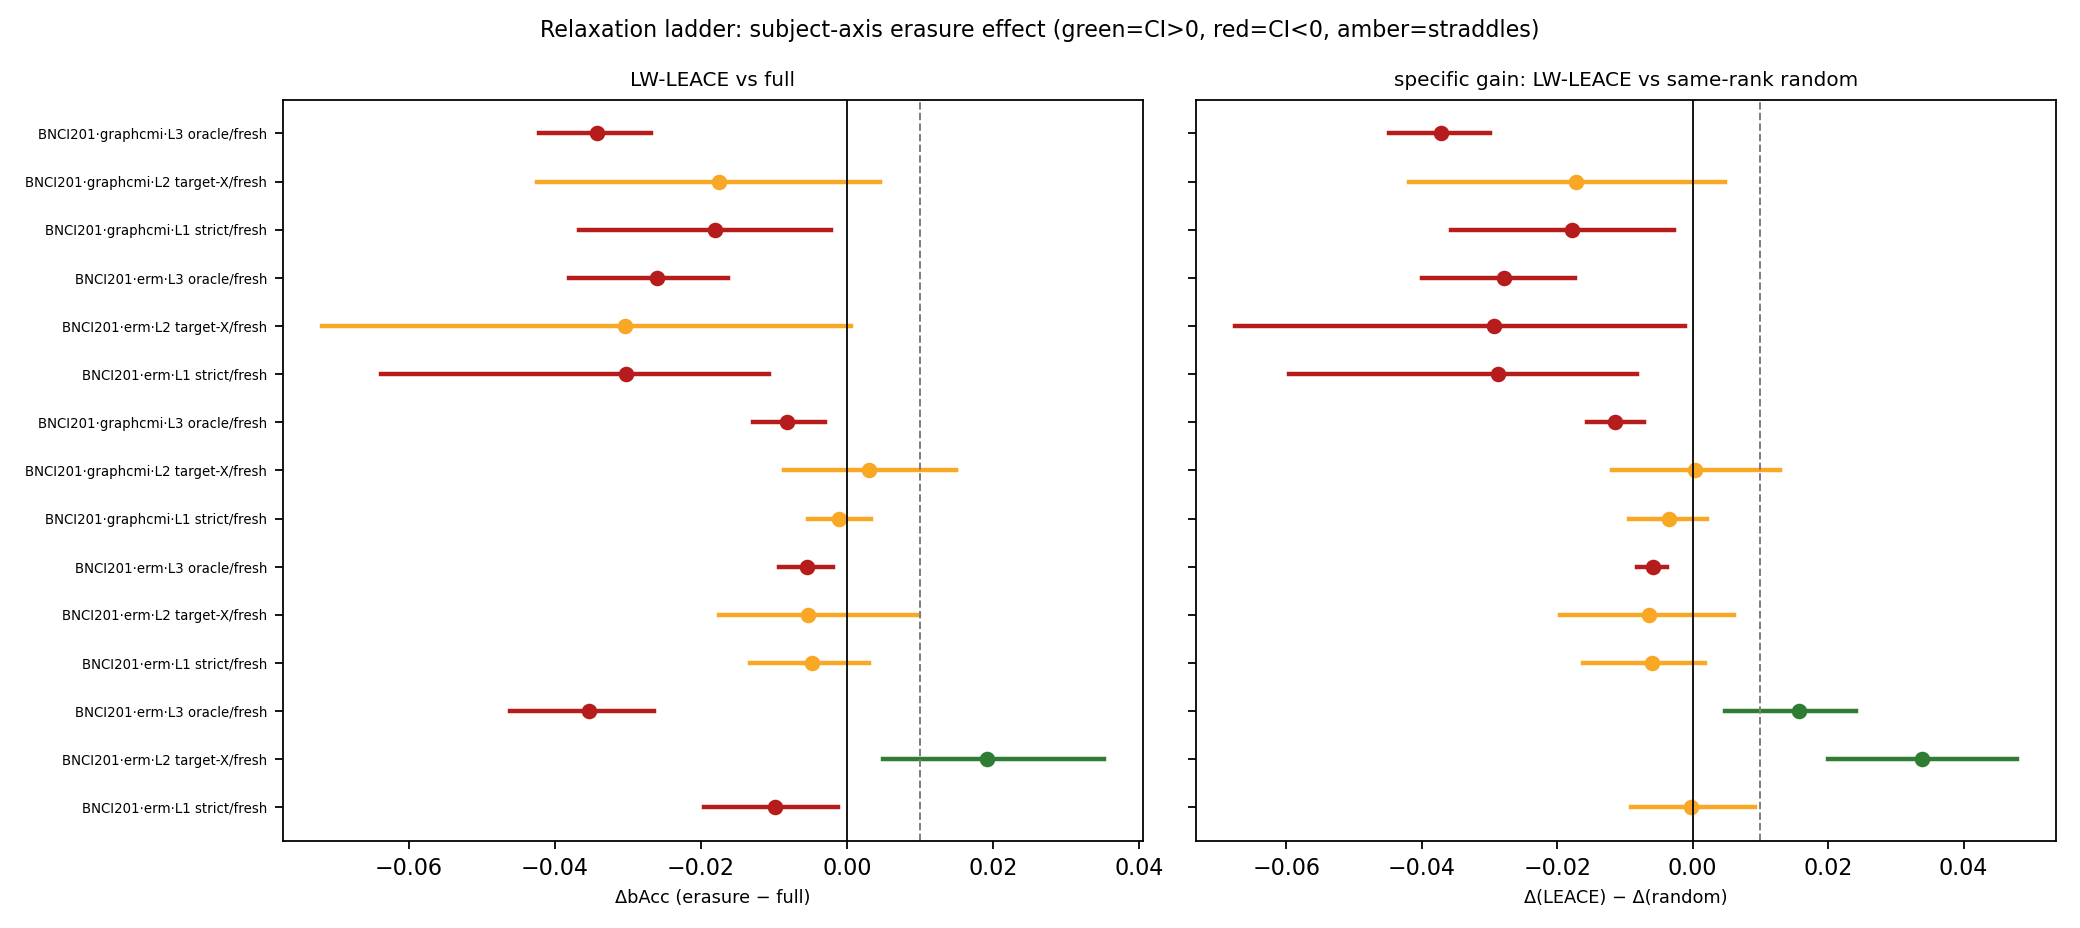
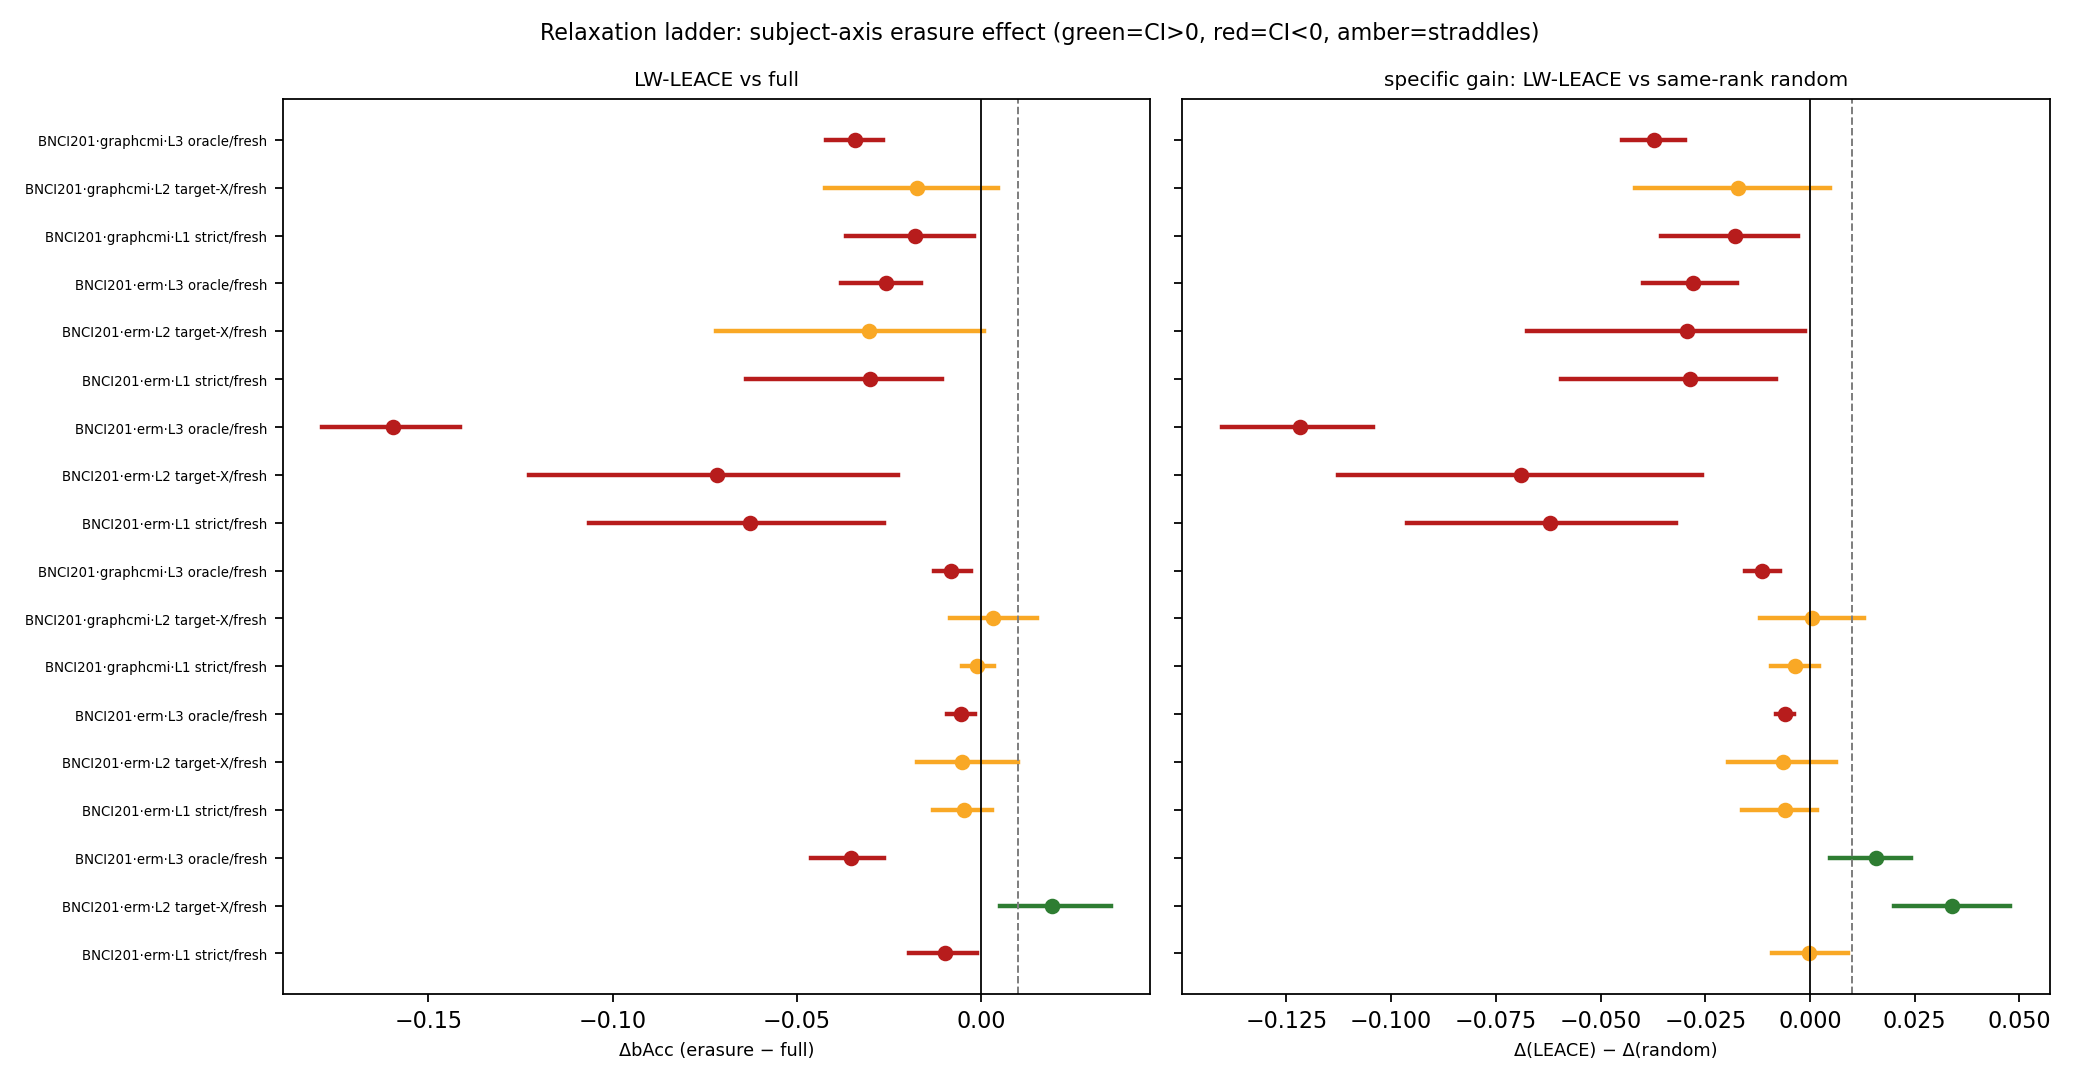
Relaxation Ladder: BNCI2015 EEGNet — transductive benefit does NOT replicate (honest scope narrowing)
BNCI2015_001 x frozen EEGNet (2-class, 36 folds) verdict = NO_POSITIVE_REGIME. Erasure HARMFUL at every
level (L1 LEACE -0.063 [-0.106,-0.026], L2 -0.072 [-0.123,-0.023], L3 -0.160; LW-LEACE WORSE than same-rank
random, specific gains -0.06..-0.12). Partly a rank artifact: LW-LEACE removes the full subject span
(rank 11) of only 16 EEGNet dims -> over-removes and destroys the 2-class task.

=> The L2 transductive benefit is SINGLE-DATASET (BNCI2014 4-class only) and does NOT replicate on BNCI2015.
Corrected the claim boundary: fragile, regime- AND task-structure-dependent effect, NOT a general
frozen-feature property; not a reliable method. Full 6-strata aggregation (29356 rows); figures + report
updated. No cherry-picking: both frozen-EEGNet datasets reported.

diff --git a/paper/cmi_trace/relaxation_ladder_claims.md b/paper/cmi_trace/relaxation_ladder_claims.md
@@ -16,9 +16,22 @@ results were known). It does not overturn or weaken the confirmed P0/P1 result; 
 | BNCI2015_001 | DGCNN graph_z | ERM | NO_POSITIVE_REGIME |
 | BNCI2015_001 | DGCNN graph_z | encoder-CMI | INCONCLUSIVE |
 | **BNCI2014_001** | **frozen EEGNet** | **ERM** | **TRANSDUCTIVE_POSITIVE** |
+| BNCI2015_001 | frozen EEGNet | ERM | **NO_POSITIVE_REGIME** (does NOT replicate) |
 
-### HEADLINE — frozen EEGNet reconciles the FMScope result with our strict result (representation- AND regime-dependent)
-On the **frozen EEGNet** representation (the FMScope-style regime), LW-LEACE subject-axis erasure:
+### CRITICAL SCOPE — the transductive benefit is SINGLE-DATASET and does NOT replicate
+The L2 transductive benefit appears ONLY on **BNCI2014_001 (4-class)** frozen EEGNet. On **BNCI2015_001
+(2-class)** frozen EEGNet it does NOT replicate — erasure is strongly HARMFUL at every level (L1 LEACE
+−0.063, L2 −0.072, L3 −0.160; LW-LEACE WORSE than same-rank random, specific gains −0.06 to −0.12). A
+plausible contributor: LW-LEACE removes the full subject span (rank = n_subjects−1 = 11) out of only 16
+EEGNet dims, leaving 5 dims — on a 2-class task this over-removes and destroys the task signal, whereas on
+BNCI2014 (8 subjects → rank 8 of 16, 4-class) the removal is less aggressive AND the task direction is more
+shared (consistency 0.722). So the beneficial regime is NARROW: frozen encoder + transductive + a
+task/dimensionality structure where removing the subject span does not also erase the task. **This is a
+fragile, single-dataset positive, NOT a general property of frozen features.**
+
+### HEADLINE — frozen EEGNet (BNCI2014 only) reconciles the FMScope result with our strict result
+On the **frozen EEGNet** representation of **BNCI2014_001** (the FMScope-style regime), LW-LEACE subject-axis
+erasure:
 - **L1 strict source-only DG**: Δ −0.010 [−0.019,−0.001], no better than same-rank random (specific gain
   −0.000 [−0.009,+0.009], beats_random=**False**) → erasure does NOT help under strict source-only DG.
 - **L2 target-X-unlabeled (transductive)**: Δ **+0.019 [+0.005,+0.035]** (helps), same-rank random **−0.015**
@@ -27,10 +40,13 @@ On the **frozen EEGNet** representation (the FMScope-style regime), LW-LEACE sub
 - **L3 oracle** (cohort-conditioned, subject-grouped CV): LEACE hurts the grouped-CV readout but still beats
   random (specific gain +0.016) — a within-cohort diagnostic, not source→unseen-subject transfer.
 
-**Reconciliation**: FMScope's positive and our strict-DG null can BOTH be correct. Subject-axis erasure
-becomes beneficial only when (a) the representation is a frozen non-graph encoder (EEGNet) AND (b) the eraser
-sees the new subject's UNLABELED geometry (transductive L2). It does NOT hold under strict source-only DG on
-any representation examined, and it is NOT present on the task-trained DGCNN graph representation at all.
+**Reconciliation (appropriately bounded)**: FMScope's positive and our strict-DG null can BOTH be correct.
+A transductive, subject-specific erasure benefit is POSSIBLE (BNCI2014 frozen EEGNet, L2) — needing (a) a
+frozen non-graph encoder, (b) the unseen subject's UNLABELED geometry, and (c) a task/dimensionality
+structure that survives removing the subject span. But it is FRAGILE: it does NOT replicate on BNCI2015
+(same encoder, 2-class), NEVER holds under strict source-only DG (L1) on any representation, and is ABSENT on
+the task-trained DGCNN graph representation. So subject-axis erasure is not a reliable DG tool; where it
+helps, it is a narrow transductive effect tied to representation + task structure.
 
 The DGCNN family (below) shows NO beneficial regime; the frozen-EEGNet family shows a TRANSDUCTIVE-only,
 subject-specific benefit. This does not weaken the confirmed P0/P1 strict result (L1 is null everywhere).
@@ -54,18 +70,20 @@ together; n_boot 10000. LW-LEACE = LW-whitened LEACE removing the full centered 
 - **Gates (H5)**: no source-only gate policy beat its identity fallback; the gate is a guarded harm-reducer
   (it correctly refuses erasure where it would hurt), not a positive method.
 
-## Manuscript-safe wording — L2-only positive (the frozen-EEGNet finding)
-> Access to the new subject's unlabeled geometry can make subject-axis erasure beneficial on a frozen
-> encoder representation (transductive L2: LW-LEACE +0.019 target bAcc, beating same-rank random by +0.034),
-> but the effect does not hold under strict source-only DG (L1 null), and it is absent on the task-trained
-> graph representation. The benefit is subject-SPECIFIC (LW-LEACE beats matched-rank random and whitening-only
-> controls), not generic dimensionality reduction or conditioning.
+## Manuscript-safe wording — L2-only positive, SINGLE-DATASET (the frozen-EEGNet finding)
+> On one dataset (BNCI2014_001, 4-class), access to the new subject's unlabeled geometry made subject-axis
+> erasure beneficial on a frozen encoder representation (transductive L2: LW-LEACE +0.019 target bAcc,
+> beating same-rank random by +0.034; subject-specific, not dimensionality/conditioning). This did NOT
+> replicate on a second dataset (BNCI2015_001, 2-class, same encoder), where erasure was harmful at every
+> level, and it never held under strict source-only DG or on the task-trained graph representation. We
+> therefore report it as a fragile, regime- and task-structure-dependent effect, not a reliable method.
 
 ## STILL PENDING (honest)
 - **TSMNet** frozen-feature ladder: dumps env-blocked (spdnets absent in `icml`; torchaudio ABI break in
   `eeg2025`). EEGNet covers the primary frozen-encoder regime; TSMNet would be a second frozen backbone.
-- **BNCI2015_001 × EEGNet** ladder: EEGNet dumps regenerated for BNCI2014_001 only so far; BNCI2015_001
-  EEGNet dumps would test whether the transductive benefit replicates on the 2-class dataset.
+- **Rank sensitivity of LW-LEACE on low-dim / many-subject cells**: the BNCI2015 EEGNet harm is partly a
+  rank artifact (removing 11 of 16 dims). A truncated-rank LEACE sweep would separate the identity effect
+  from over-removal; the config declares `lw_leace_truncated` as an optional eraser for this.
 
 ## FORBIDDEN wording (always)
 - "CMI erasure solves EEG DG" / "TOS improves domain generalization".

diff --git a/notes/CMI_TRACE_RELAXATION_LADDER_EXECUTION.md b/notes/CMI_TRACE_RELAXATION_LADDER_EXECUTION.md
@@ -82,8 +82,13 @@ On frozen EEGNet features (BNCI2014_001 ERM), LW-LEACE subject-axis erasure verd
 - Erasure is beneficial ONLY transductively (L2, using the unseen subject's UNLABELED geometry; target Y
   never used) and is subject-SPECIFIC (beats matched-rank random + whitening-only). It is NULL under strict
   source-only DG (L1) — consistent with the confirmed P0/P1 strict result — and ABSENT on the task-trained
-  DGCNN graph representation. FMScope's positive + our strict null can both be correct: the benefit needs a
-  frozen encoder AND target-geometry access.
+  DGCNN graph representation.
+- **DOES NOT REPLICATE**: on BNCI2015_001 (2-class) frozen EEGNet the verdict is **NO_POSITIVE_REGIME** —
+  erasure is HARMFUL at every level (L1 −0.063, L2 −0.072, L3 −0.160; LW-LEACE worse than random). Partly a
+  rank artifact (LW-LEACE removes 11 of 16 dims → destroys the 2-class task). So the L2 benefit is a FRAGILE,
+  SINGLE-DATASET (BNCI2014 4-class) effect, not a general frozen-feature property. FMScope's positive + our
+  strict null can both be correct, but the beneficial regime is narrow (frozen encoder + transductive +
+  task/dimensionality structure that survives subject-span removal).
 
 ### Environment blocker (Stage 7) — HONEST
 - TOS frozen-dump regeneration hit env rot in `eeg2025`: moabb 1.5.0 renamed `BNCI2014001`→`BNCI2014_001`
@@ -125,7 +130,7 @@ On frozen EEGNet features (BNCI2014_001 ERM), LW-LEACE subject-axis erasure verd
    where erasure would hurt). NO policy beats identity (all H5 CIs negative or straddle 0) — a guarded
    harm-reducer, not a positive method.
 12. **Deterministic verdicts**: DGCNN {INCONCLUSIVE, GENERIC_DIMENSIONALITY_EFFECT, NO_POSITIVE_REGIME,
-   INCONCLUSIVE}; frozen-EEGNet BNCI2014 ERM = **TRANSDUCTIVE_POSITIVE**.
+   INCONCLUSIVE}; frozen-EEGNet BNCI2014 ERM = **TRANSDUCTIVE_POSITIVE** but BNCI2015 EEGNet = **NO_POSITIVE_REGIME** (does NOT replicate; single-dataset).
 13. **Claims**: CONFIRMED — DGCNN has no beneficial erasure regime; frozen-EEGNet erasure is transductively
    (L2) beneficial + subject-specific but NULL under strict DG (L1). P0/P1 strict result UNCHANGED (L1 null
    everywhere). WEAKENED/OVERTURNED — none. PENDING — BNCI2015×EEGNet transductive replication (dumps